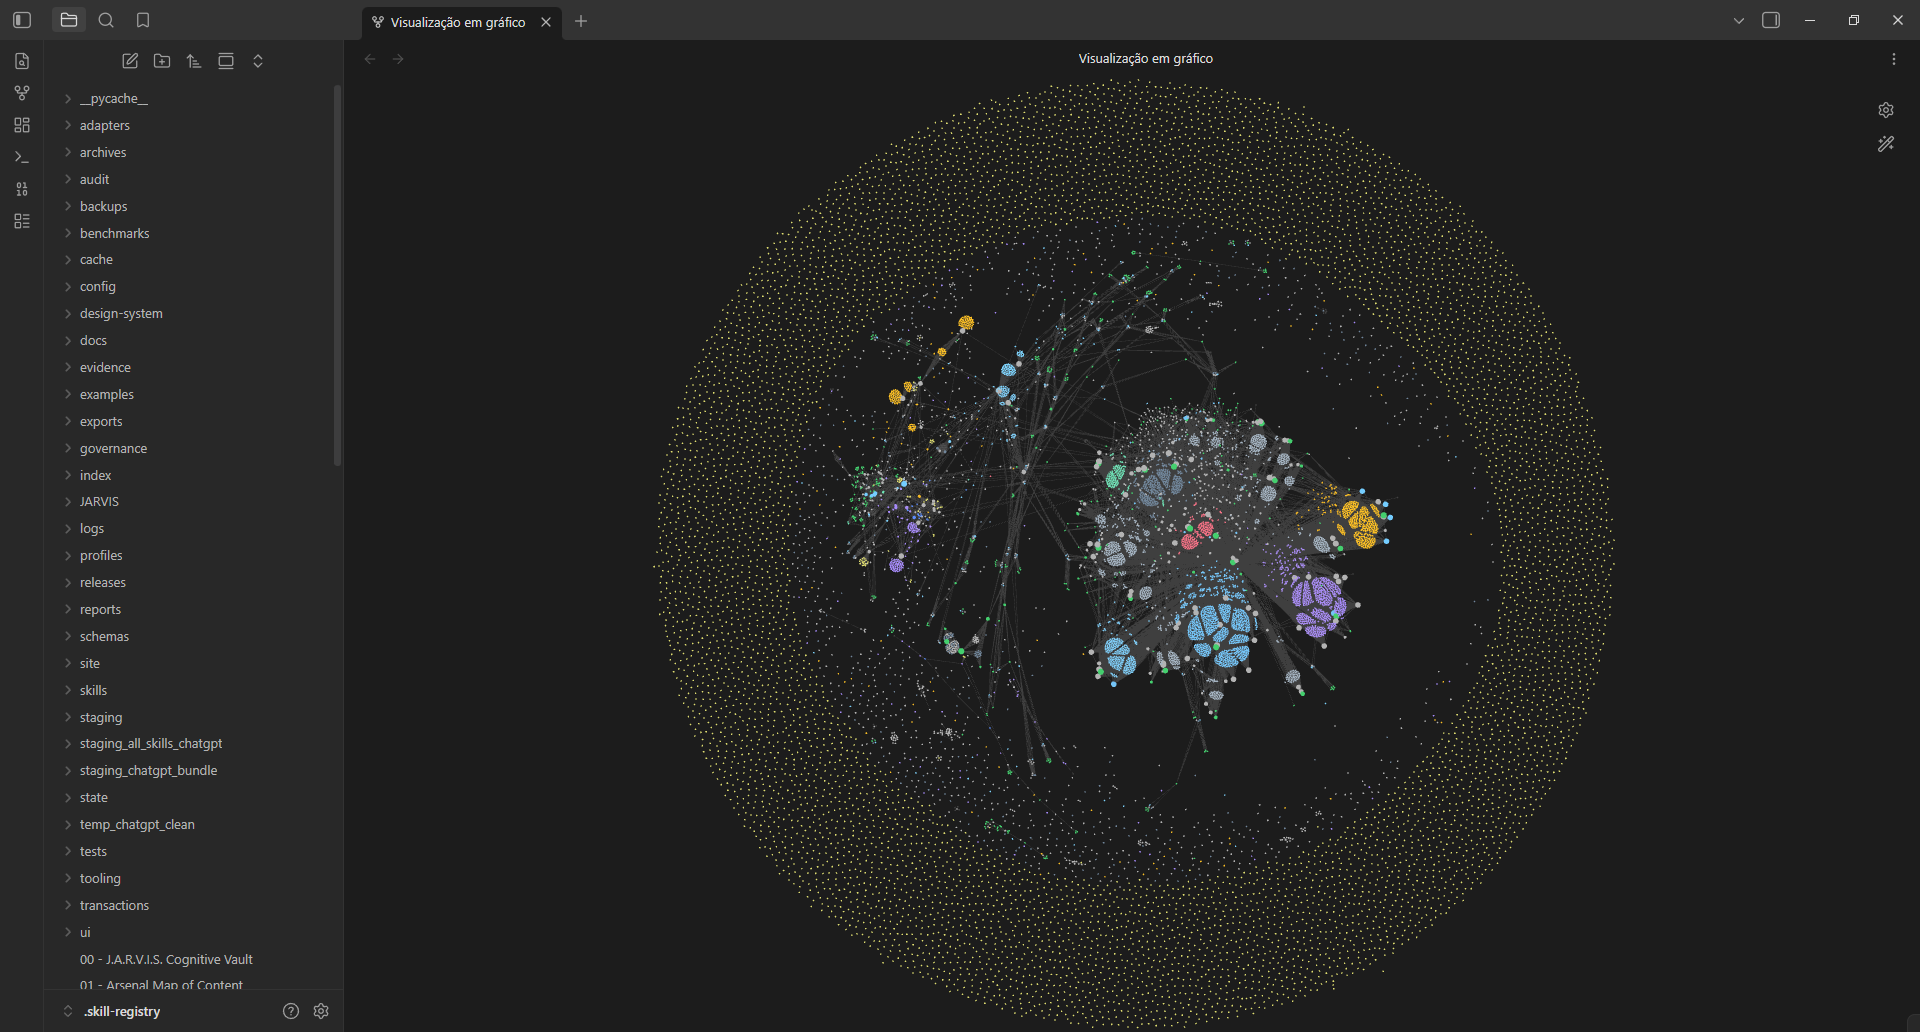
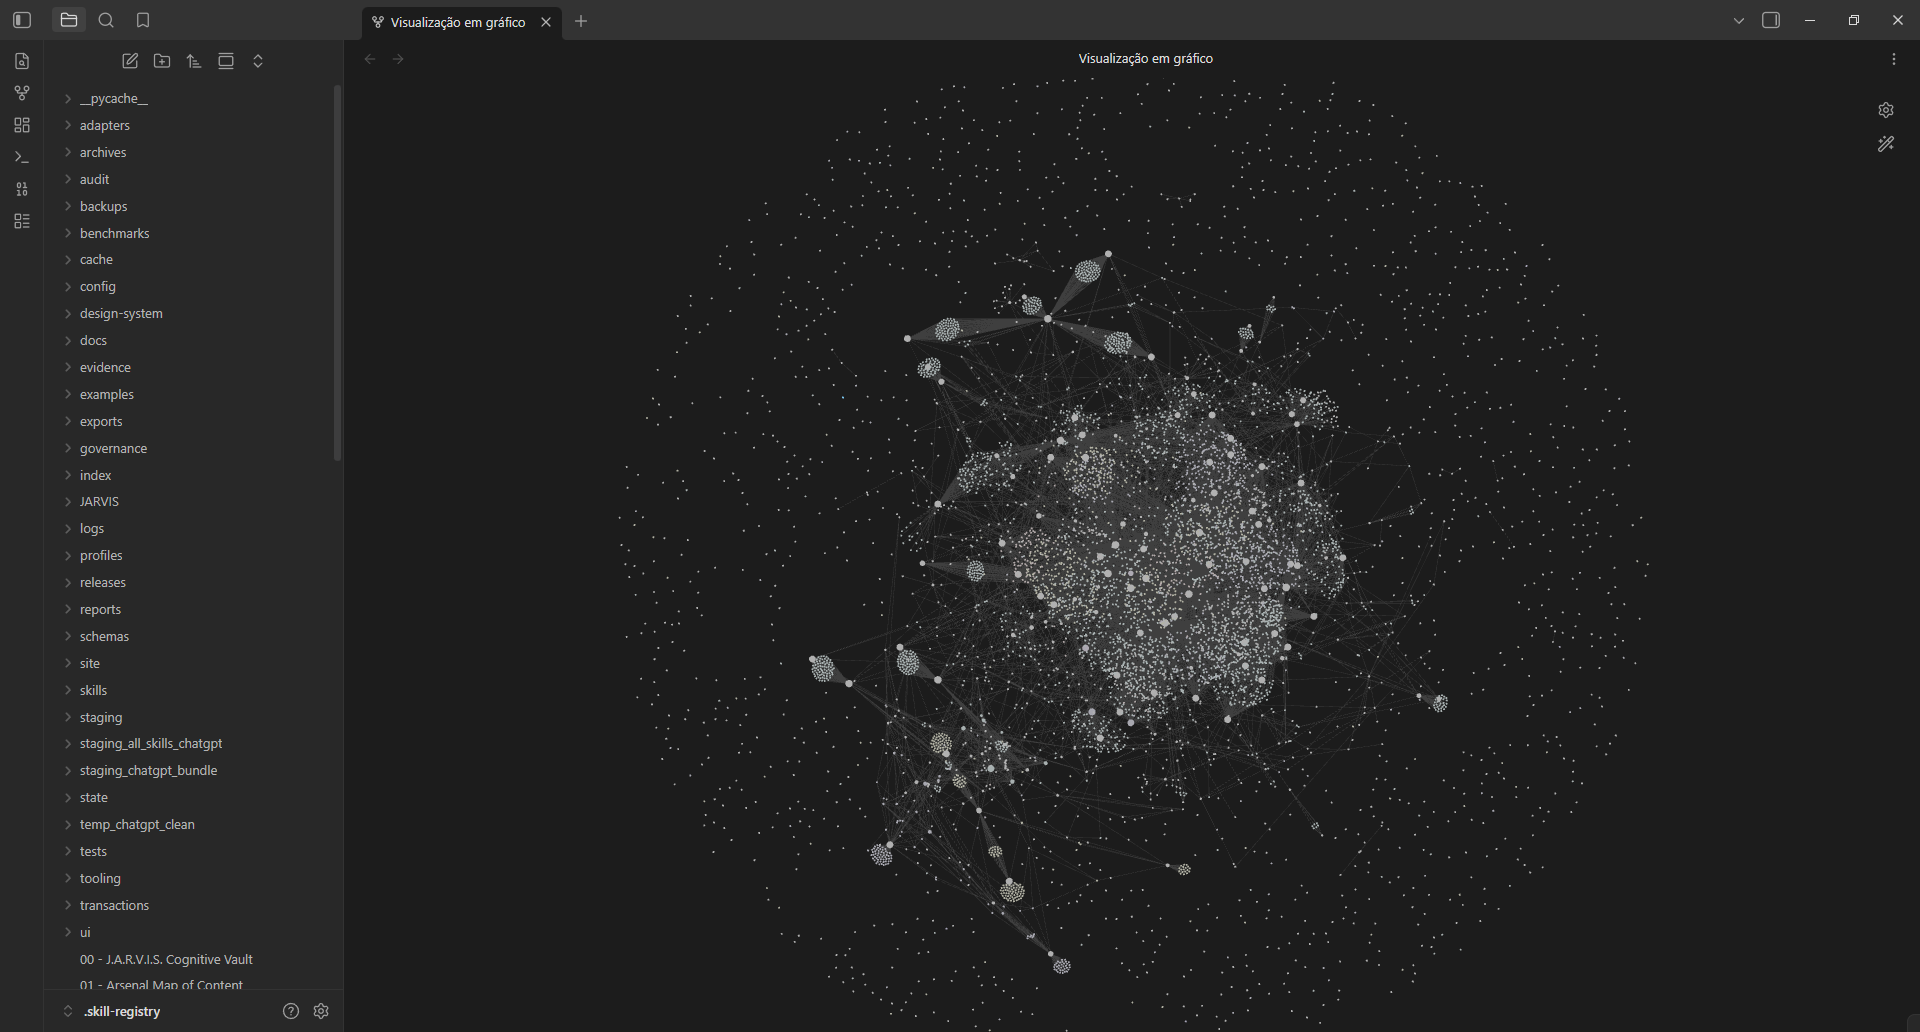
feat: add graph universe configuration, visual asset, and execution report for cognitive vault

diff --git a/reports/vault-atlas/EXECUTION.md b/reports/vault-atlas/EXECUTION.md
@@ -25,7 +25,7 @@ Obsidian desktop **1.13.7** foi conferido com CLI e renderização real. Antes d
 
 Depois da indexação, `app.metadataCache.initialized` era verdadeiro e `inProgressTaskCount` era zero. O Vault indexava **6.644 notas**, com **11.125 conexões** na configuração Universo aplicada; a verificação do índice não encontrou nenhum link sem destino começando em `JARVIS/Atlas/`. O modo Núcleo exibiu **5.050 nós** no teste de filtro. Os dados e referências GitHub seguem acessíveis no Vault e no modo Externo.
 
-Na tela, os grupos do Obsidian ajudam a distinguir hubs, projetos, documentação, evidências, pessoas, memória, skills e referências. O Atlas organiza as referências por linguagem e, para proprietários repetidos, por conta. A captura real do Graph View foi adicionada em `docs/assets/cognitive-vault-graph-universe.png`; ela é ilustrativa porque o layout é recalculado pelo Obsidian. A cor e a posição no grafo não expressam confiança. O tamanho ainda é atribuído pelo Obsidian com base em backlinks reais e no multiplicador global; o plugin nativo não oferece tamanho individual por grupo.
+Na tela, os grupos do Obsidian ajudam a distinguir hubs, projetos, documentação, evidências, pessoas, memória, skills e referências. O Atlas organiza as referências por linguagem e, para proprietários repetidos, por conta. A captura foi feita pelo CLI do Obsidian com o perfil Universo aplicado e está em `docs/assets/cognitive-vault-graph-universe.png`. É uma captura do renderizador real; as posições mudam quando o layout recalcula. A cor e a posição no grafo não expressam confiança. O tamanho ainda é atribuído pelo Obsidian com base em backlinks reais e no multiplicador global; o plugin nativo não oferece tamanho individual por grupo.
 
 O J.A.R.V.I.S. já tinha as três skills de Obsidian no registry, todas elegíveis como `ACTIVE` e `VERIFIED_ADAPTED`. Esta continuação conecta o roteador de intenção ao catálogo governado para carregar automaticamente `obsidian-cli-controller`, `obsidian-markdown-syntax` e `obsidian-database-bases`; quarentena/tombstones removem a capacidade. `skillctl.ps1 obsidian tools` enumera as skills disponíveis e detecta o executável local (`D:\obsidian\Obsidian.com`). Isso não confirma uma sessão do app nem executa comandos por conta própria.
 
